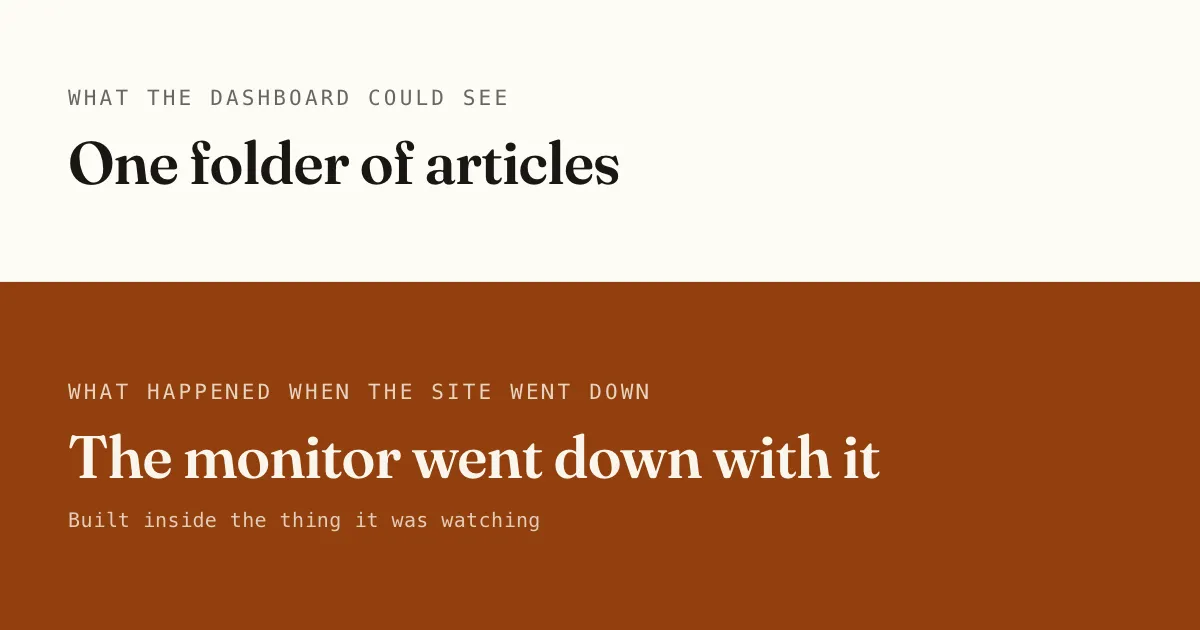
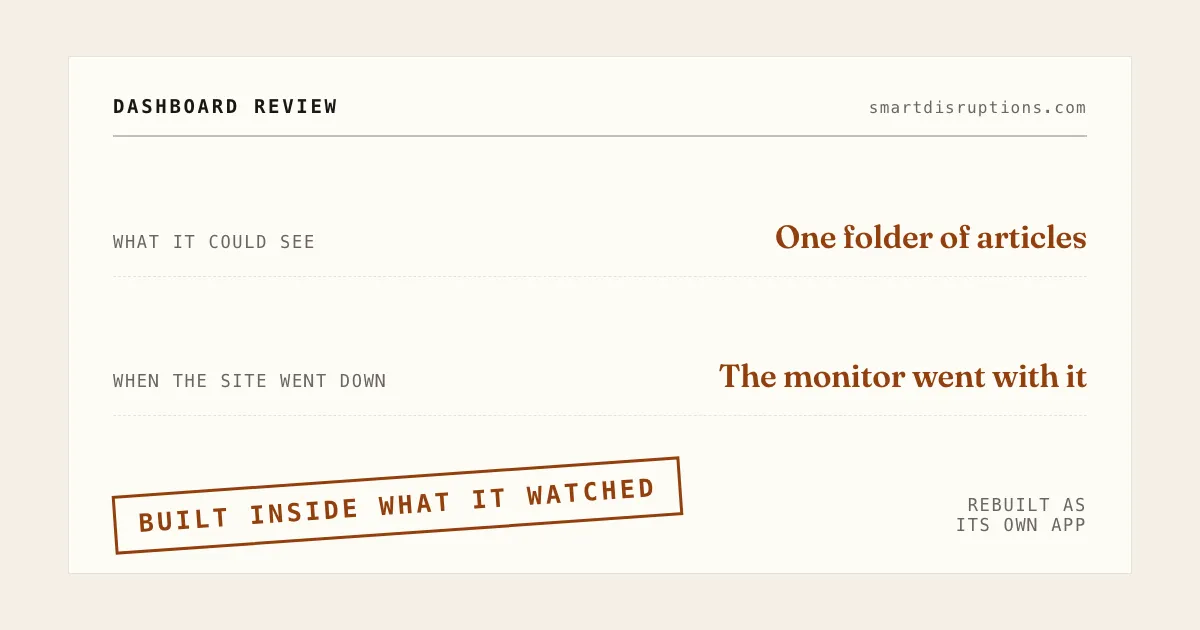
design: make the hero templates a registry, and add two more
Three templates covered the common cases; five covers more, and the point
of this change is that the sixth costs what the fifth did.

Templates now live in a REGISTRY, each owning one evidence key. Adding one
means appending an entry with a key nothing else claims, a render, and an
optional check — nothing else in the file changes. Selection walks the
registry instead of an if-chain, so there is no longer a place where
adding a template means editing the chooser.

New:

  record     -> receipt   a ledger of findings with the verdict stamped
  statement  -> field     one colour, one sentence reversed out of it

Both are new *shapes of evidence*, not new moods, and that is the bar for
a sixth: `count` is a tally, `log` is machine output, `record` is a set of
findings, `statement` is a sentence. A template that would read the same
keys as an existing one is a restyle of that one, and the honest fix is to
change its renderer. Without that bar this stops being a system and turns
into a folder of looks, which is the failure the derived-template design
existed to prevent.

Two keys in one spec is now a refusal rather than a precedence table. A
post has one central piece of evidence; if two look right, the spec has
not decided what the article is about. It prints what collided and exits
1, with no stack trace — an authoring mistake should read like one.

took-it-apart-and-built-it-again moves split -> receipt, because it is the
[…]

diff --git a/AGENTS.md b/AGENTS.md
@@ -118,34 +118,40 @@ Write for the smallest place it appears. The grid renders the hero at about
 500px wide, so `before.text` and `after.text` are clauses of roughly 30
 characters — long ones are auto-shrunk, which is a fallback, not a licence.
 
-### The three templates, and why you never pick one
+### The templates, and why you never pick one
 
-There are three hero templates, and **the spec's shape decides which renders.
-There is no `template` key and there must not be one.**
+Each template owns one **evidence key**. Putting that key in the spec is what
+selects it. **There is no `template` field and there must not be one.**
 
-| Add this to the spec | Renders | Use when |
+| Add this key | Renders | Use when |
 |---|---|---|
-| nothing extra | `split` | the default — two panels, the second a colour field |
-| `count` | `count` | the post has a countable finding, 12 or fewer |
-| `log` | `console` | the evidence *is* machine output — a response, a run, a log |
+| nothing | `split` | the default — one belief against one truth |
+| `count` | `count` | a countable finding, 12 or fewer |
+| `log` | `console` | the evidence *is* machine output — a response, a run |
+| `record` | `receipt` | a *set* of findings with a verdict, not a single contrast |
+| `statement` | `field` | the finding compresses to one sentence and there is nothing else to show |
 
 The one question to answer is **what evidence does this post have**, which is a
 fact about the article. "Which template looks nicer here" is a taste call, and
 taste calls don't survive this pipeline — three articles have been written in the
 same two minutes before. A wrong treatment reads worse than a plain one, so when
-neither trigger clearly applies, it's a `split`. That is the majority case, not a
+no trigger clearly applies it's a `split`. That is the majority case, not a
 fallback.
 
+**Exactly one evidence key may be present.** Two is an error and the script
+refuses to run: a post has one central piece of evidence, and if two look right
+then the spec hasn't decided what the article is about yet.
+
 A `count.of` above 12 stops being countable at a glance, so it renders `split`
-and says so. Don't work around that by shrinking the number to fit; 52 passing
-tests is a `log` line, not eight blocks.
+and says so. Don't shrink the number to fit — 52 passing tests is a `log` line,
+not eight blocks.
 
 ```json
 "count": { "of": 8, "hit": 7, "unit": "claims checked",
            "verdict": "were wrong", "detail": "Central thesis withdrawn" }
 ```
-renders as *8 claims checked* over eight blocks with seven filled, under
-*“**7 of 8** were wrong”*. `hit` is the number that broke, not the number that passed.
+*8 claims checked* over eight blocks with seven filled, under *“**7 of 8** were
+wrong”*. `hit` is the number that broke, not the number that passed.
 
 ```json
 "log": { "name": "curl · no session, no password",
@@ -153,11 +159,44 @@ renders as *8 claims checked* over eight blocks with seven filled, under
                     { "chip": "200 OK",  "tone": "bad",  "text": "17,798 bytes · 43 tasks" } ],
          "summary": "Public the whole time." }
 ```
-The house pattern is two lines — what looked fine, then what was true — and a
-summary. Chips must be real output, not invented labels.
+Two lines — what looked fine, then what was true — and a summary. Chips must be
+real output, not invented labels.
+
+```json
+"record": { "title": "Dashboard review",
+            "rows": [ { "label": "What it could see", "value": "One folder of articles", "tone": "warn" },
+                      { "label": "When the site went down", "value": "The monitor went with it", "tone": "warn" } ],
+            "stamp": "Built inside what it watched", "note": "Rebuilt as\nits own app" }
+```
+Two or three rows read best; four is the ceiling before the sheet gets cramped.
+`tone` on a row colours that row's value. Use this when the post audited
+something and found several things, where a `split` would have to throw away all
+but one.
+
+```json
+"statement": { "quiet": "It looked like it needed a server.",
+               "loud": "It needed a text file.", "note": "$0 a month · no database" }
+```
+The whole frame becomes the tone colour. This carries the least evidence of the
+five, so it is only right when the sentence *is* the finding — if the post has a
+number, a log, or two concrete lists, one of those is the better picture.
 
 **`before` and `after` are always required**, whichever template renders: the
 social card uses them and does not vary.
+
+### Adding a sixth
+
+Append an entry to `REGISTRY` in `scripts/make-hero.mjs` with a `key` no other
+template claims, a `render(theme)`, and optionally a `check` that returns a
+string when the data can't be drawn. Then add a row to the table above. Nothing
+else changes.
+
+The bar for a new template is that its key is a genuinely different **shape of
+evidence** — `count` is a tally, `log` is machine output, `record` is a ledger,
+`statement` is a sentence. If a proposed template would read from the same keys
+as an existing one, it's a restyle of that template rather than a new one, and
+the honest move is to change the existing renderer instead. That bar is what
+keeps this a system rather than a folder of looks.
 
 ### The social card never changes
 

diff --git a/src/content/posts/took-it-apart-and-built-it-again.md b/src/content/posts/took-it-apart-and-built-it-again.md
@@ -19,7 +19,7 @@ channels:
     note: "1/ I built a dashboard for my own site. It took a day, it worked, and by that evening I'd decided it was built wrong and taken it apart. Nothing was broken. That's what makes it worth writing down.\n\n2/ It lived inside the website, behind a password. Every reason for that was good: the site already existed, it already knew how to read my articles, one thing to deploy.\n\n3/ Problem one: a bad deploy that broke the site broke the dashboard with it. The moment I'd most want to look is exactly the moment it's gone. I'd built a smoke detector and wired it to the same circuit as the stove.\n\n4/ Problem two: it read the site's own store of posts, so posts were all it could ever show me. The pages I wanted weren't \"not done yet\" — they weren't in that data at all. I hadn't built a command center. I'd built a nicer view of one folder.\n\n5/ Before touching anything I saved the old version to a branch and tagged it. Thirty seconds. That's what turned \"should I rebuild this?\" from a risk into a preference.\n\n6/ The rebuild looks at the system instead of being part of it. It reads route files, so pages that haven't shipped still show up. It checks whether my scheduled jobs left behind the files they're supposed to leave. And it works when the site is down.\n\n7/ One question sorts this before you build: if the thing I'm monitoring goes down, do I still have the monitor? If no, it belongs outside."
     comment: Full write-up, including the follow-up question — is the data it reads the data I'll eventually want? https://www.smartdisruptions.com/content/took-it-apart-and-built-it-again
 heroImage: /images/content/took-it-apart-and-built-it-again-hero.webp
-heroImageAlt: "Two panels: what the dashboard could see, one folder of articles, above what happened when the site went down — the monitor went down with it, because it was built inside the thing it was watching."
+heroImageAlt: "A review sheet listing two findings — the dashboard could see only one folder of articles, and it went down whenever the site did — stamped 'built inside what it watched'."
 ogImage: /images/content/took-it-apart-and-built-it-again.webp
 heroImageLight: /images/content/took-it-apart-and-built-it-again-hero-light.webp
 ---
